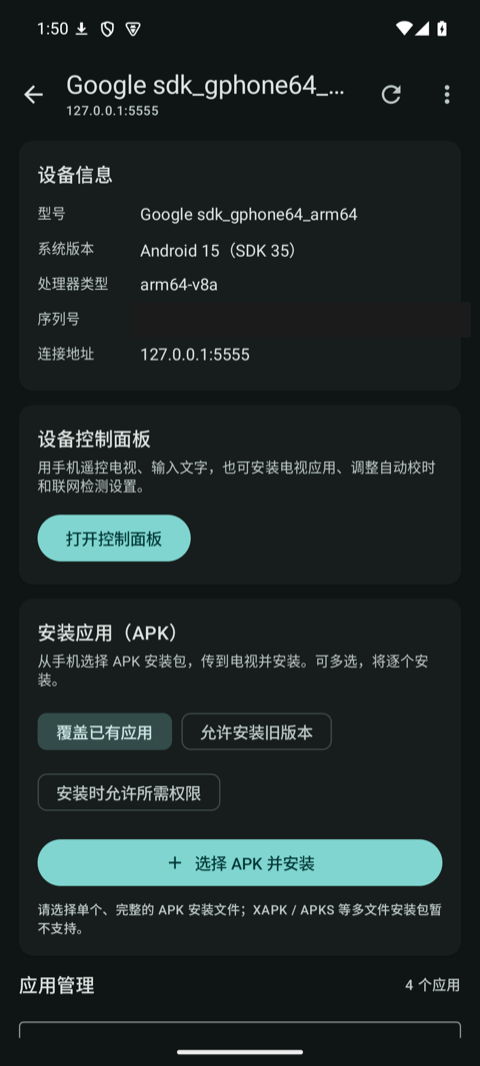
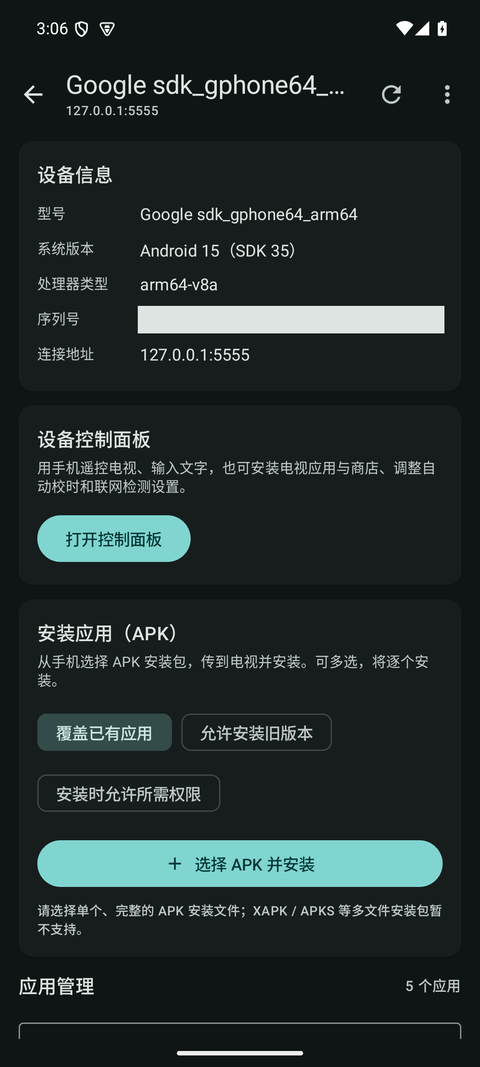
商店安装支持发布页回退并移到控制面板第一项
GitHub 接口限流时改用 releases.atom 获取 PureTV 商店版本；控制面板首项改为安装商店，设备页说明同步更新。

diff --git a/app/src/main/java/com/puretv/mobilehelper/data/StoreInstaller.kt b/app/src/main/java/com/puretv/mobilehelper/data/StoreInstaller.kt
@@ -4,6 +4,7 @@ import android.content.Context
 import android.net.Uri
 import android.os.Build
 import androidx.core.content.FileProvider
+import kotlinx.coroutines.CancellationException
 import kotlinx.coroutines.Dispatchers
 import kotlinx.coroutines.withContext
 import org.json.JSONObject
@@ -27,6 +28,20 @@ data class StoreRelease(
 class StoreInstaller(private val context: Context) {
 
     suspend fun findLatest(): StoreRelease = withContext(Dispatchers.IO) {
+        val apiFailure = try {
+            Result.success(fetchApiRelease())
+        } catch (cancel: CancellationException) {
+            throw cancel
+        } catch (error: Throwable) {
+            Result.failure(error)
+        }
+        apiFailure.getOrNull()
+            ?: fetchAtomRelease()
+            ?: throw (apiFailure.exceptionOrNull()
+                ?: IOException("商店还没有发布可安装的版本，请稍后再试。"))
+    }
+
+    private fun fetchApiRelease(): StoreRelease? {
         val response = request(LATEST_RELEASE_URL)
         if (response.code == HttpURLConnection.HTTP_NOT_FOUND) {
             throw IOException("商店还没有发布可安装的版本，请稍后再试。")
@@ -34,8 +49,14 @@ class StoreInstaller(private val context: Context) {
         if (response.code != HttpURLConnection.HTTP_OK) {
             throw IOException("暂时无法获取商店版本（${response.code}），请稍后重试。")
         }
-        parseStoreRelease(response.body)
+        return parseStoreRelease(response.body)
             ?: throw IOException("商店的最新版本里没有找到安装包，请稍后再试。")
+    }
+
+    private fun fetchAtomRelease(): StoreRelease? {
+        val response = request(atomUrl(STORE_REPO), "application/atom+xml")
+        if (response.code != HttpURLConnection.HTTP_OK) return null
+        return storeReleaseFromAtom(response.body)
     }
 
     suspend fun download(
@@ -92,13 +113,16 @@ class StoreInstaller(private val context: Context) {
         file,
     )
 
-    private fun request(url: String): Response {
+    private fun request(
+        url: String,
+        accept: String = "application/vnd.github+json",
+    ): Response {
         val connection = (URL(url).openConnection() as HttpURLConnection).apply {
             connectTimeout = 15_000
             readTimeout = 20_000
             instanceFollowRedirects = true
             setRequestProperty("User-Agent", USER_AGENT)
-            setRequestProperty("Accept", "application/vnd.github+json")
+            setRequestProperty("Accept", accept)
         }
         return try {
             val code = connection.responseCode
@@ -115,9 +139,11 @@ class StoreInstaller(private val context: Context) {
     private companion object {
         const val USER_AGENT = "PureTV-MobileHelper"
         const val LATEST_RELEASE_URL =
-            "https://api.github.com/repos/JamesWDGu/PureTVStore/releases/latest"
+            "https://api.github.com/repos/$STORE_REPO/releases/latest"
     }
 }
+
+private const val STORE_REPO = "JamesWDGu/PureTVStore"
 
 internal fun parseStoreRelease(body: String): StoreRelease? {
     val json = JSONObject(body)
@@ -144,5 +170,17 @@ internal fun parseStoreRelease(body: String): StoreRelease? {
         notes = notes,
         apkUrl = chosen.optString("browser_download_url"),
         apkSize = chosen.optLong("size"),
+    )
+}
+
+/** Builds the fixed-asset release from the Atom feed when the GitHub API is rate limited. */
+internal fun storeReleaseFromAtom(xml: String): StoreRelease? {
+    val release = parseLatestAtomRelease(xml) ?: return null
+    return StoreRelease(
+        versionName = release.version,
+        notes = release.notes,
+        apkUrl = "https://github.com/$STORE_REPO/releases/download/${release.tag}/" +
+            "PureTVStore-${release.version}.apk",
+        apkSize = 0L,
     )
 }

diff --git a/app/src/main/java/com/puretv/mobilehelper/data/AppUpdater.kt b/app/src/main/java/com/puretv/mobilehelper/data/AppUpdater.kt
@@ -71,7 +71,7 @@ class AppUpdater(private val context: Context) {
     }
 
     private fun fetchAtomRelease(): AppUpdate? {
-        val response = request(ATOM_URL, "application/atom+xml")
+        val response = request(atomUrl(UPDATER_REPO), "application/atom+xml")
         if (response.code != HttpURLConnection.HTTP_OK) return null
         return parseAtomRelease(response.body)
     }
@@ -188,7 +188,6 @@ class AppUpdater(private val context: Context) {
         const val USER_AGENT = "PureTV-MobileHelper"
         const val LATEST_RELEASE_URL =
             "https://api.github.com/repos/$UPDATER_REPO/releases/latest"
-        const val ATOM_URL = "https://github.com/$UPDATER_REPO/releases.atom"
     }
 }
 
@@ -196,30 +195,12 @@ private const val UPDATER_REPO = "JamesWDGu/PureTVMobileHelper"
 
 /** Parses the first entry of GitHub's releases Atom feed; no API quota is used. */
 internal fun parseAtomRelease(xml: String): AppUpdate? {
-    val entry = Regex("<entry>(.*?)</entry>", RegexOption.DOT_MATCHES_ALL)
-        .find(xml)?.groupValues?.get(1) ?: return null
-    val tag = Regex("/releases/tag/([^\"]+)").find(entry)?.groupValues?.get(1) ?: return null
-    val version = parseAppVersion(tag)?.name ?: return null
-    val encodedNotes = Regex("<content[^>]*>(.*?)</content>", RegexOption.DOT_MATCHES_ALL)
-        .find(entry)?.groupValues?.get(1).orEmpty()
+    val release = parseLatestAtomRelease(xml) ?: return null
     return AppUpdate(
-        versionName = version,
-        notes = plainReleaseNotes(htmlToText(encodedNotes)),
-        apkUrl = "https://github.com/$UPDATER_REPO/releases/download/$tag/PureTV-$version.apk",
+        versionName = release.version,
+        notes = plainReleaseNotes(release.notes),
+        apkUrl = "https://github.com/$UPDATER_REPO/releases/download/${release.tag}/" +
+            "PureTV-${release.version}.apk",
         apkSize = 0L,
     )
 }
-
-private fun htmlToText(html: String): String = html
-    .replace("&lt;", "<")
-    .replace("&gt;", ">")
-    .replace("&quot;", "\"")
-    .replace("&#39;", "'")
-    .replace(Regex("(?i)<br\\s*/?>"), "\n")
-    .replace(Regex("(?i)</(p|h[1-6]|li|ul|ol)>"), "\n")
-    .replace(Regex("<[^>]+>"), "")
-    .replace("&nbsp;", " ")
-    .replace("&amp;", "&")
-    .replace(Regex("[ \\t]+"), " ")
-    .replace(Regex("\\n{3,}"), "\n\n")
-    .trim()

diff --git a/app/src/main/java/com/puretv/mobilehelper/data/GitHubAtomFeed.kt b/app/src/main/java/com/puretv/mobilehelper/data/GitHubAtomFeed.kt
@@ -1,0 +1,35 @@
+package com.puretv.mobilehelper.data
+
+/** One release parsed from GitHub's Atom feed, which needs no API quota. */
+internal data class AtomRelease(
+    val tag: String,
+    val version: String,
+    val notes: String,
+)
+
+internal fun atomUrl(repo: String): String = "https://github.com/$repo/releases.atom"
+
+/** Parses the newest entry of a GitHub releases Atom feed. */
+internal fun parseLatestAtomRelease(xml: String): AtomRelease? {
+    val entry = Regex("<entry>(.*?)</entry>", RegexOption.DOT_MATCHES_ALL)
+        .find(xml)?.groupValues?.get(1) ?: return null
+    val tag = Regex("/releases/tag/([^\"]+)").find(entry)?.groupValues?.get(1) ?: return null
+    val version = parseAppVersion(tag)?.name ?: return null
+    val encodedNotes = Regex("<content[^>]*>(.*?)</content>", RegexOption.DOT_MATCHES_ALL)
+        .find(entry)?.groupValues?.get(1).orEmpty()
+    return AtomRelease(tag = tag, version = version, notes = htmlToText(encodedNotes))
+}
+
+private fun htmlToText(html: String): String = html
+    .replace("&lt;", "<")
+    .replace("&gt;", ">")
+    .replace("&quot;", "\"")
+    .replace("&#39;", "'")
+    .replace(Regex("(?i)<br\\s*/?>"), "\n")
+    .replace(Regex("(?i)</(p|h[1-6]|li|ul|ol)>"), "\n")
+    .replace(Regex("<[^>]+>"), "")
+    .replace("&nbsp;", " ")
+    .replace("&amp;", "&")
+    .replace(Regex("[ \\t]+"), " ")
+    .replace(Regex("\\n{3,}"), "\n\n")
+    .trim()

diff --git a/app/src/test/java/com/puretv/mobilehelper/data/StoreInstallerTest.kt b/app/src/test/java/com/puretv/mobilehelper/data/StoreInstallerTest.kt
@@ -42,4 +42,28 @@ class StoreInstallerTest {
         val json = """{"tag_name":"v3.0.0","assets":[{"name":"notes.txt","browser_download_url":""}]}"""
         assertNull(parseStoreRelease(json))
     }
+
+    @Test
+    fun atomFallbackBuildsStandardStoreAssetUrl() {
+        val xml = """
+            <feed>
+              <entry>
+                <link rel="alternate" type="text/html"
+                  href="https://github.com/JamesWDGu/PureTVStore/releases/tag/v1.2.2"/>
+                <title>PureTV 商店 1.2.2</title>
+                <content type="html">&lt;h3&gt;修复&lt;/h3&gt;&lt;p&gt;版本 1.2.2&lt;/p&gt;</content>
+              </entry>
+            </feed>
+        """.trimIndent()
+
+        val release = storeReleaseFromAtom(xml)
+
+        assertEquals("1.2.2", release?.versionName)
+        assertEquals(
+            "https://github.com/JamesWDGu/PureTVStore/releases/download/v1.2.2/" +
+                "PureTVStore-1.2.2.apk",
+            release?.apkUrl,
+        )
+        assertEquals(true, release?.notes?.contains("版本 1.2.2"))
+    }
 }

diff --git a/app/src/main/java/com/puretv/mobilehelper/ui/screens/ControlPanelCommon.kt b/app/src/main/java/com/puretv/mobilehelper/ui/screens/ControlPanelCommon.kt
@@ -43,6 +43,12 @@ enum class ControlPanelFeature(
     val description: String,
     val icon: ImageVector,
 ) {
+    STORE(
+        id = "store",
+        title = "安装 PureTV 商店",
+        description = "在电视上安装应用商店，之后可直接安装和更新应用",
+        icon = Icons.Default.ShoppingCart,
+    ),
     NTP(
         id = "ntp",
         title = "自动校时",
@@ -60,12 +66,6 @@ enum class ControlPanelFeature(
         title = "遥控输入",
         description = "手动发送、实时输入与遥控按键",
         icon = Icons.Default.Edit,
-    ),
-    STORE(
-        id = "store",
-        title = "安装 PureTV 商店",
-        description = "在电视上安装应用商店，之后可直接安装和更新应用",
-        icon = Icons.Default.ShoppingCart,
     );
 
     companion object {

diff --git a/app/src/main/java/com/puretv/mobilehelper/ui/screens/DeviceScreen.kt b/app/src/main/java/com/puretv/mobilehelper/ui/screens/DeviceScreen.kt
@@ -353,7 +353,7 @@ private fun ControlPanelCard(onOpen: () -> Unit) {
             Text("设备控制面板", style = MaterialTheme.typography.titleMedium)
             Spacer(Modifier.height(4.dp))
             Text(
-                "用手机遥控电视、输入文字，也可安装电视应用、调整自动校时和联网检测设置。",
+                "用手机遥控电视、输入文字，也可安装电视应用与商店、调整自动校时和联网检测设置。",
                 style = MaterialTheme.typography.bodySmall,
                 color = MaterialTheme.colorScheme.onSurfaceVariant,
             )

diff --git a/AGENTS.md b/AGENTS.md
@@ -132,7 +132,9 @@
 16. 安装 PureTV 商店：`StoreInstaller` 读取 `JamesWDGu/PureTVStore` 的 `releases/latest`，优先选择
     `PureTVStore-*.apk`，下载到 `cacheDir/stores/PureTVStore-<版本>.apk`，经
     `FileProvider`（`stores/` 路径）与 `AdbRepository.install` 安装到当前电视；页面只展示版本、
-    下载进度和安装状态，不自动安装。商店本身在电视上读取 `store/apps.json` 并安装/更新开源应用。
+    下载进度和安装状态，不自动安装。GitHub 接口限流（403/429）或解析失败时改用
+    `releases.atom`（无配额）并推导 `PureTVStore-<版本>.apk` 下载地址，与手机端更新检查共用
+    `GitHubAtomFeed.kt`。商店本身在电视上读取 `store/apps.json` 并安装/更新开源应用。
 
 ### 设备记录存储
 
@@ -284,7 +286,8 @@ README 界面预览图必须使用模拟器/占位数据并脱敏后放到 `docs
   `DeviceControlScreen` 的 `when (openFeature)` 路由里加分支。不要把所有功能堆在列表页或一个
   巨型文件里；列表页只负责展示与导航。
 - 安装 PureTV 商店只从 `JamesWDGu/PureTVStore` 的正式 Release 获取 APK，不得改为其他仓库或
-  本地内置 APK；下载文件必须写 `cacheDir/stores/` 并通过 `FileProvider` 交给 ADB 安装。
+  本地内置 APK；GitHub API 受限时必须回退到 `releases.atom`，不能只显示错误。下载文件必须写
+  `cacheDir/stores/` 并通过 `FileProvider` 交给 ADB 安装。
   电视上是否已安装以 `com.puretv.store` 包名为准，不得凭下载成功判断已安装。
 - 测速属于功能页职责：列表页不放测速/跨功能入口。各功能页的“一键测速”是唯一入口；不要自动
   测速、后台定时测速或把结果写入设备记录。

diff --git a/README.md b/README.md
@@ -129,7 +129,8 @@
 - 自动校时和联网检测使用 Android 标准设置，部分电视需重启或重新联网才生效。
 - 测速在手机上进行，不代表电视的实际网络结果。
 - 文字输入暂只支持英文、数字和英文符号；实时输入要求电视光标保持在本轮文字末尾。
-- 检查更新和安装商店需要能访问 GitHub；接口受限或尚未发布版本时会显示原因，可稍后重试。
+- 检查更新和安装商店需要能访问 GitHub；GitHub 接口受限时会自动改用发布页信息，仍失败时
+  会显示原因，可稍后重试。
 
 ## 隐私
 

diff --git a/CHANGELOG.md b/CHANGELOG.md
@@ -4,6 +4,13 @@
 版本号只在 `gradle.properties` 的 `mobileVersionName` 修改，版本代号自动推导为
 `MAJOR × 10000 + MINOR × 100 + PATCH`。
 
+## [1.2.2] - 2026-11-14
+
+### 修复
+
+- 安装 PureTV 商店时，GitHub 接口请求过多也会自动改用发布页信息，不再直接显示 403 失败。
+- “安装 PureTV 商店”移到控制面板第一项，控制面板说明同步包含商店。
+
 ## [1.2.1] - 2026-11-14
 
 ### 修复
